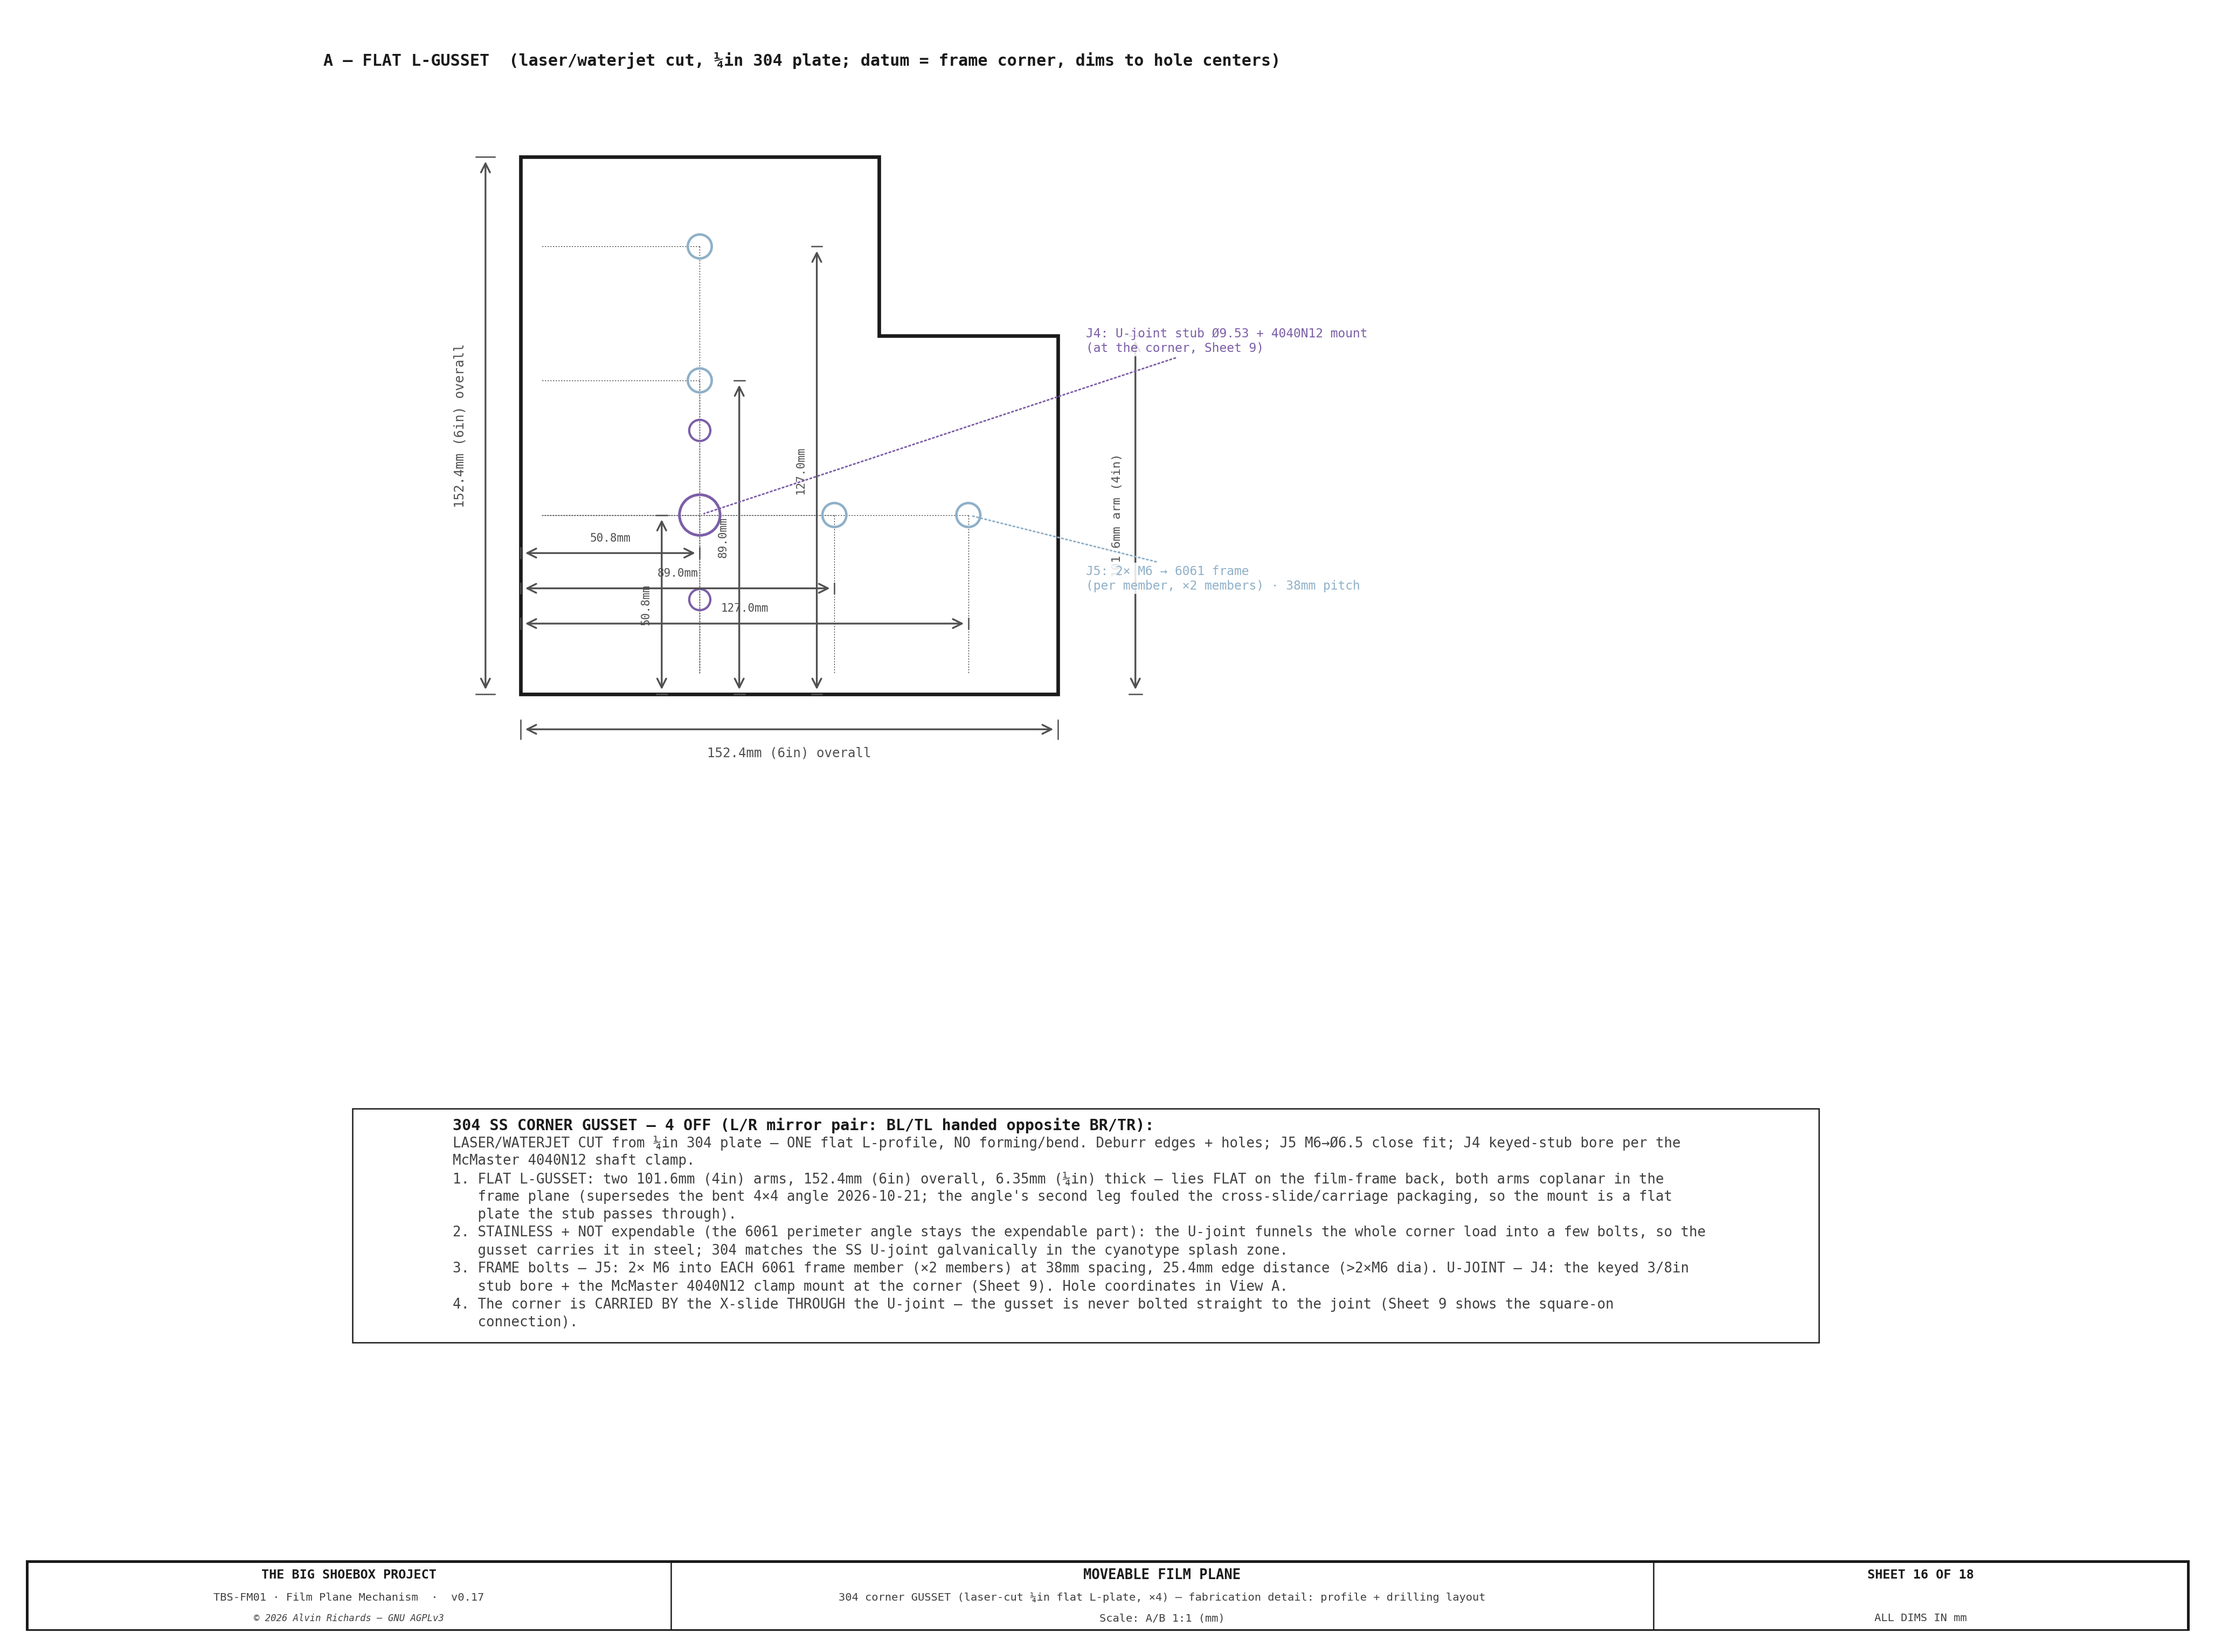
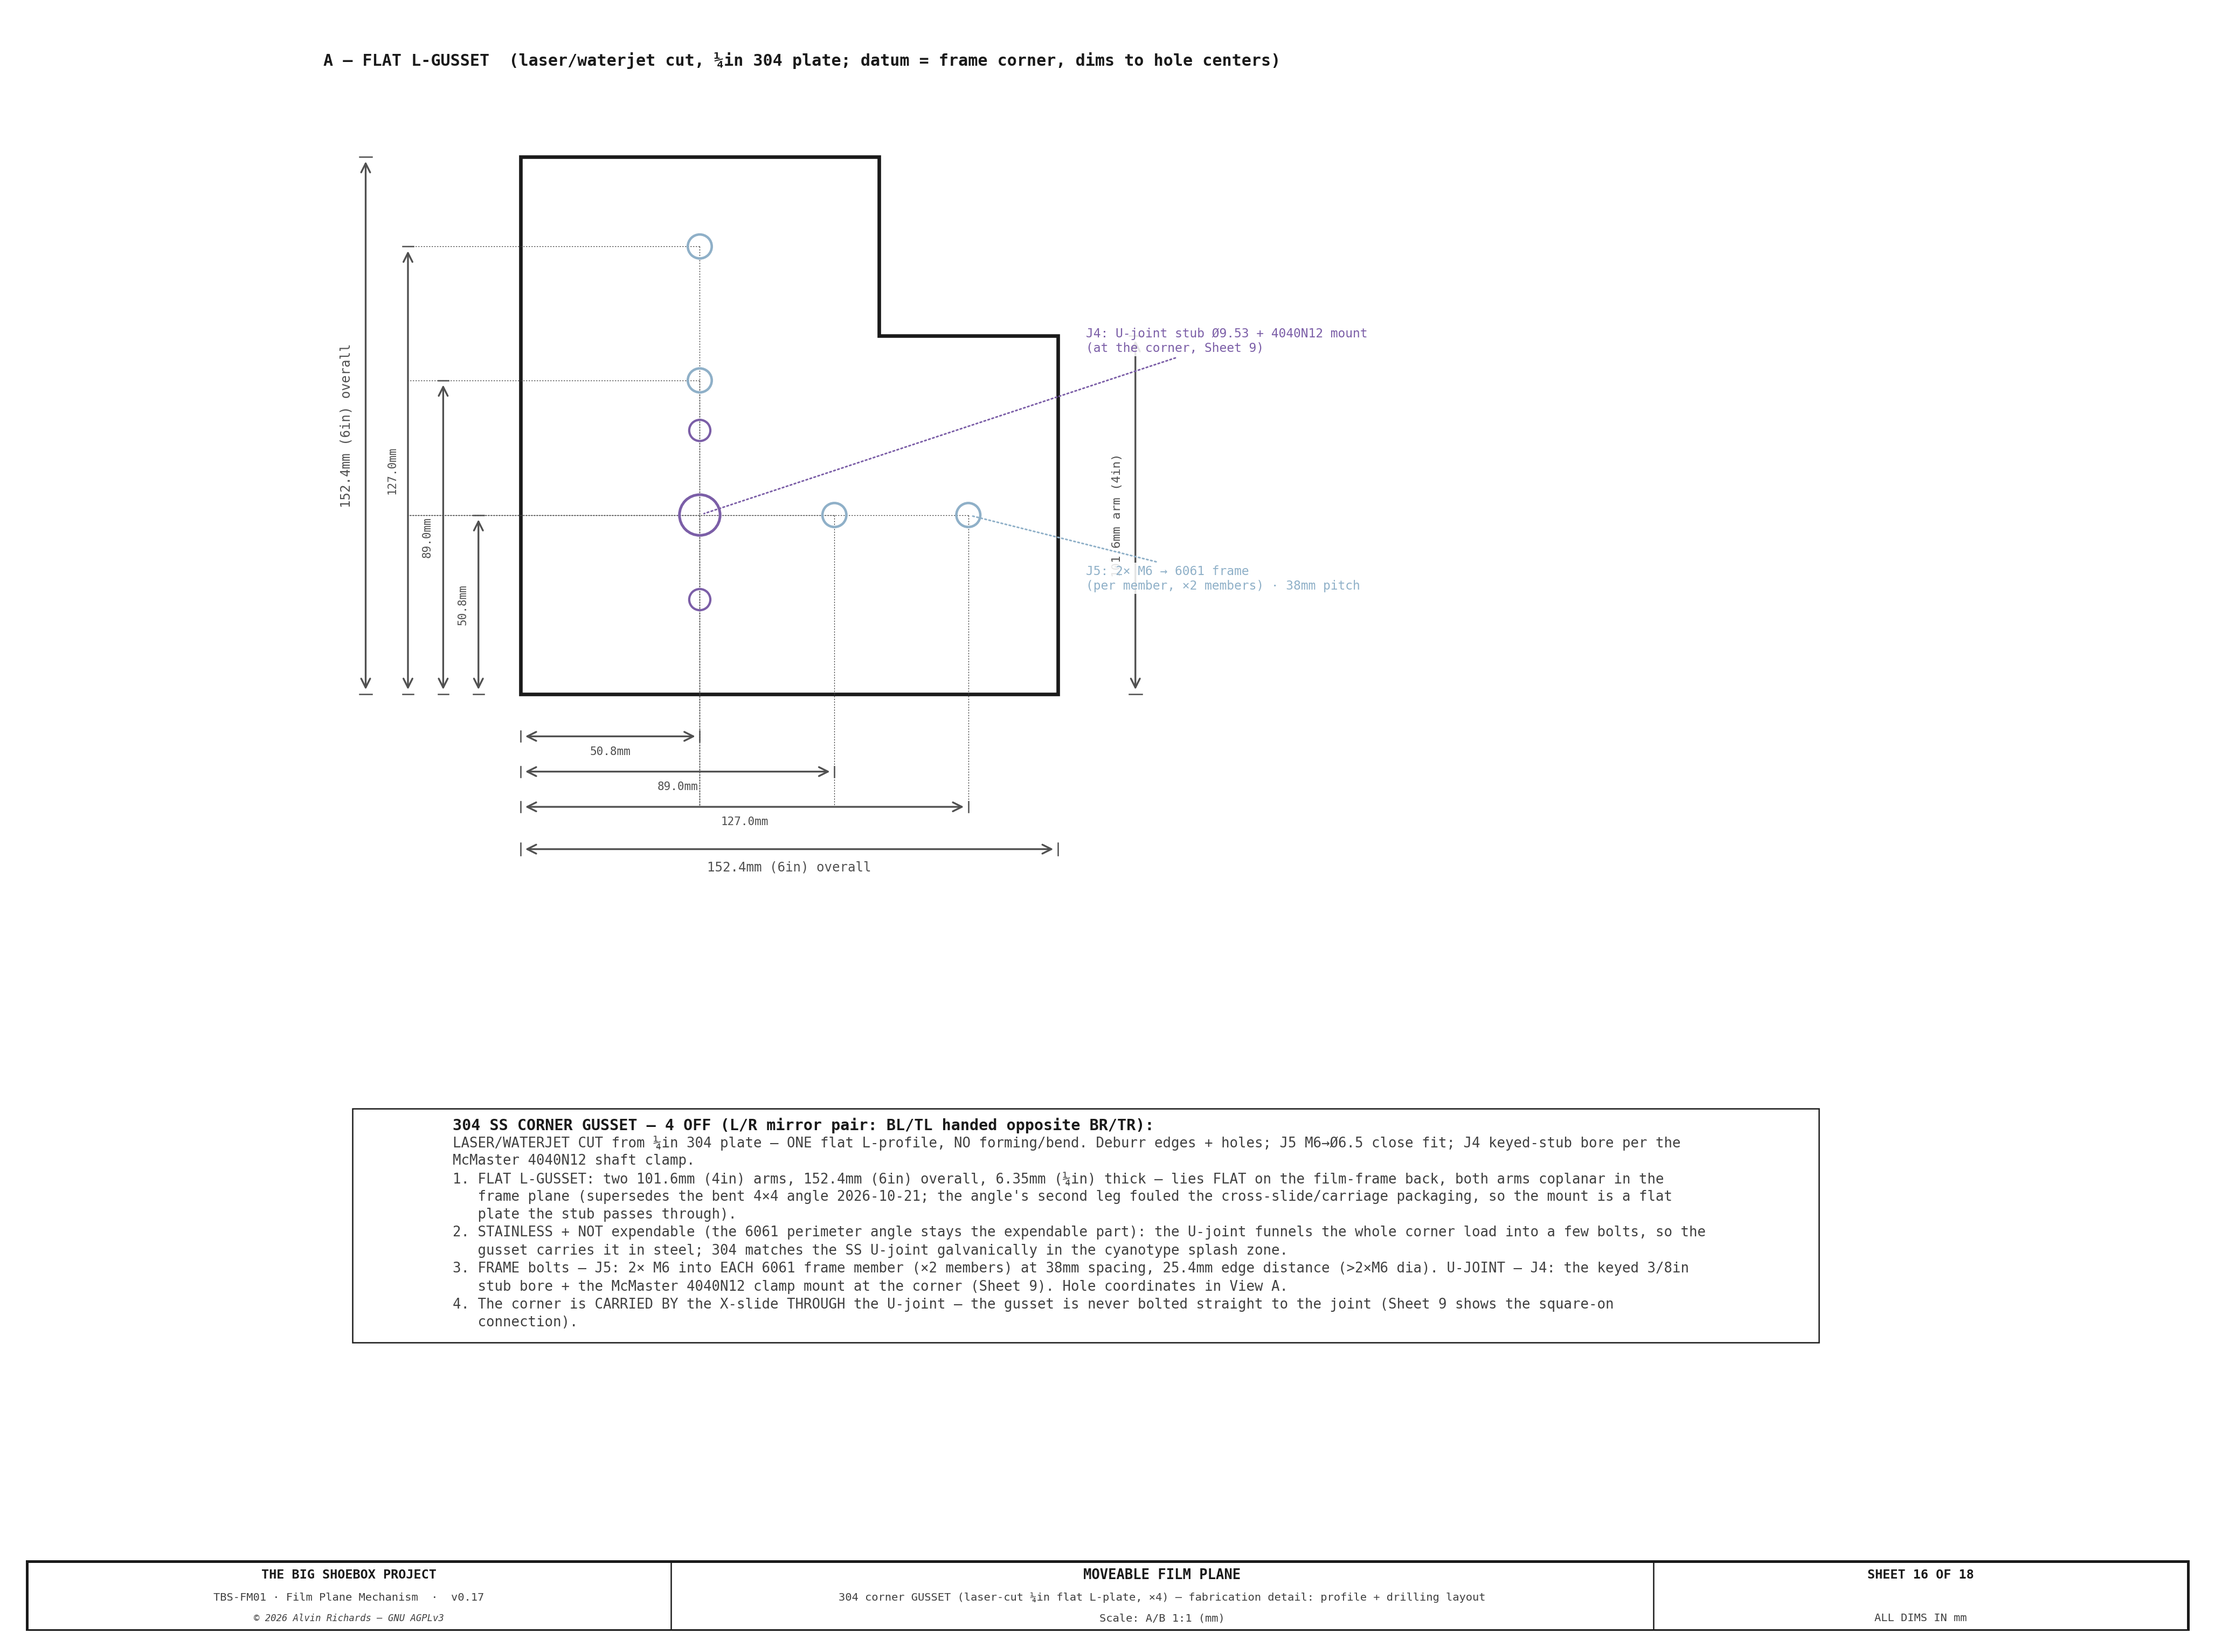
Sheet 16: move corner-gusset hole dims outside the piece
X-dims stacked below, Z-dims stacked left, overall outermost; witness lines
trace each hole out to its dim band.

diff --git a/src/generators/generate_film_plane_mechanism.py b/src/generators/generate_film_plane_mechanism.py
@@ -2455,21 +2455,20 @@ def sheet16():
     draw_circle(axA, ux, uz, UJOINT_STUB_OD / 2 + 1, lw=1.2, color=C_SWING, zorder=6)     # stub clearance
     for dz in (-24, 24):
         draw_circle(axA, ux, uz + dz, 3.0, lw=1.0, color=C_SWING, zorder=6)                # 4040N12 mount bolts
-    # overall + arm widths
-    draw_dim_h(axA, 0, L, -10, f"{L:.1f}mm (6in) overall", fs=5.8, font=FONT, above=False, offset=9)
-    draw_dim_v(axA, -10, 0, L, f"{L:.1f}mm (6in) overall", fs=5.8, font=FONT, offset=9)
+    # hole-locating dims OUTSIDE the piece — X-dims stacked BELOW, Z-dims stacked LEFT; overall outermost. Arm width on the right.
     draw_dim_v(axA, L + 22, 0, leg, f"{leg:.1f}mm arm (4in)", fs=5.4, font=FONT, offset=6)
-    # locate every hole by X (dim_h) + Y (dim_v), placed INSIDE the white plate (readable)
-    draw_dim_h(axA, 0, hc, 40, f"{hc:.1f}mm", fs=5.0, font=FONT, offset=5)   # arm centerline / J4 X
-    draw_dim_h(axA, 0, b1, 30, f"{b1:.1f}mm", fs=5.0, font=FONT, offset=5)   # J5 horiz X (near)
-    draw_dim_h(axA, 0, b2, 20, f"{b2:.1f}mm", fs=5.0, font=FONT, offset=5)   # J5 horiz X (far)
-    draw_dim_v(axA, 40, 0, hc, f"{hc:.1f}mm", fs=5.0, font=FONT, offset=5)   # arm centerline / J4 Y
-    draw_dim_v(axA, 62, 0, b1, f"{b1:.1f}mm", fs=5.0, font=FONT, offset=5)   # J5 vert Y (near)
-    draw_dim_v(axA, 84, 0, b2, f"{b2:.1f}mm", fs=5.0, font=FONT, offset=5)   # J5 vert Y (far)
-    # extension guides — tie EACH hole to its inside dims so the hole↔dim link is unambiguous
+    draw_dim_h(axA, 0, hc, -12, f"{hc:.1f}mm", fs=5.0, font=FONT, above=False, offset=5)   # arm centerline / J4 X
+    draw_dim_h(axA, 0, b1, -22, f"{b1:.1f}mm", fs=5.0, font=FONT, above=False, offset=5)   # J5 horiz X (near)
+    draw_dim_h(axA, 0, b2, -32, f"{b2:.1f}mm", fs=5.0, font=FONT, above=False, offset=5)   # J5 horiz X (far)
+    draw_dim_h(axA, 0, L,  -44, f"{L:.1f}mm (6in) overall", fs=5.8, font=FONT, above=False, offset=6)
+    draw_dim_v(axA, -12, 0, hc, f"{hc:.1f}mm", fs=5.0, font=FONT, offset=5)   # arm centerline / J4 Z
+    draw_dim_v(axA, -22, 0, b1, f"{b1:.1f}mm", fs=5.0, font=FONT, offset=5)   # J5 vert Z (near)
+    draw_dim_v(axA, -32, 0, b2, f"{b2:.1f}mm", fs=5.0, font=FONT, offset=5)   # J5 vert Z (far)
+    draw_dim_v(axA, -44, 0, L,  f"{L:.1f}mm (6in) overall", fs=5.8, font=FONT, offset=6)
+    # witness lines — trace EACH hole OUT to its dim band (down to the X band, left to the Z band)
     for hx, hy in j5_h + j5_v + [(ux, uz)]:
-        axA.plot([hx, hx], [hy, 6], color=DIM, lw=0.3, ls=(0, (2, 2)), zorder=4)   # above the white plate (zorder 3)
-        axA.plot([hx, 6], [hy, hy], color=DIM, lw=0.3, ls=(0, (2, 2)), zorder=4)
+        axA.plot([hx, hx], [hy, -32], color=DIM, lw=0.3, ls=(0, (2, 2)), zorder=4)
+        axA.plot([hx, -32], [hy, hy], color=DIM, lw=0.3, ls=(0, (2, 2)), zorder=4)
     leader(axA, b2, hc, L + 8, hc - 18, f"J5: 2× M6 → 6061 frame\n(per member, ×2 members) · {sp}mm pitch", ha="left", fs=5.5, color=C_FRAME, font=FONT, bbox=LBL_BG)
     leader(axA, ux, uz, L + 8, L / 2 + 24, f"J4: U-joint stub Ø{UJOINT_STUB_OD} + 4040N12 mount\n(at the corner, Sheet 9)", ha="left", fs=5.5, color=C_SWING, font=FONT, bbox=LBL_BG)
     axA.text(-56, L + 26, "A — FLAT L-GUSSET  (laser/waterjet cut, ¼in 304 plate; datum = frame corner, dims to hole centers)", fontsize=7.2, fontweight="bold", color=OUT, ha="left", **FONT)
